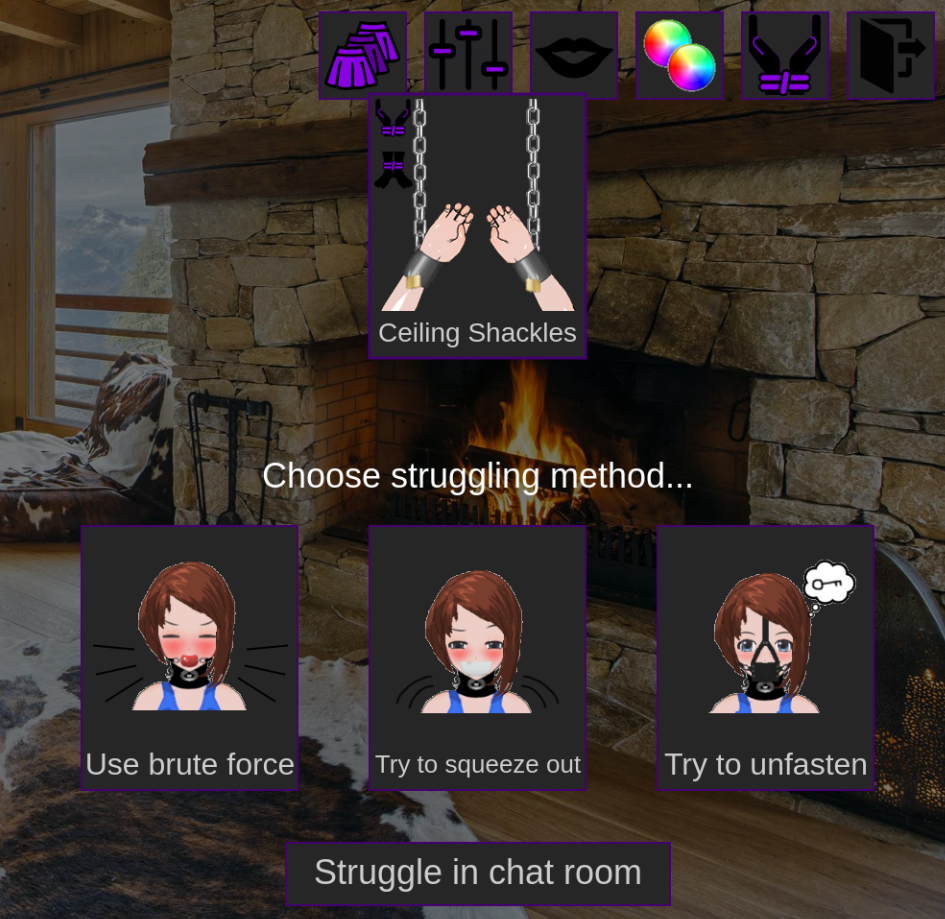
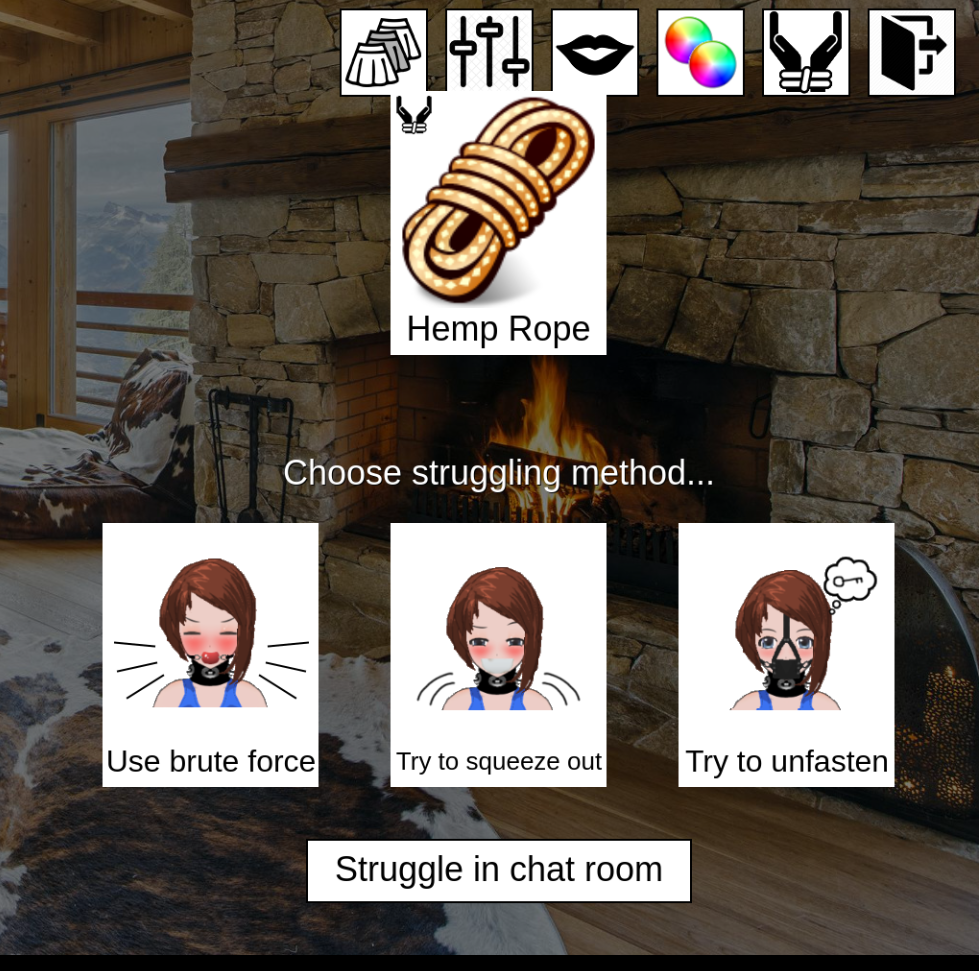
Fixes fixes fixes

diff --git a/src/qam-subscreens/welcomeQAMSubscreen.ts b/src/qam-subscreens/welcomeQAMSubscreen.ts
@@ -1,6 +1,7 @@
 import { version } from "@/../package.json";
 import { BaseQAMSubscreen } from "./baseQAMSubscreen";
 import { addDynamicClass } from "zois-core/ui";
+import { showChangelogModal } from "zois-core/changelogs";
 
 
 export class WelcomeQAMSubscreen extends BaseQAMSubscreen {
@@ -14,17 +15,20 @@ export class WelcomeQAMSubscreen extends BaseQAMSubscreen {
         text.style.cssText = "margin: 0 auto; width: 95%; text-align: center; font-size: 1.45em;";
         text.textContent = "Report errors and visual bugs if you encounter them, this will help make QAM even more convenient and powerful";
 
+        const flex = document.createElement("div");
+        flex.style.cssText = "display: flex; gap: 6px; align-items: center; justify-content: center; margin: 1em;";
+
         const githubPageButton = document.createElement("a");
         githubPageButton.textContent = "Github Page";
         githubPageButton.href = "https://github.com/FurryZoi/Bondage-Club-Chaos";
         githubPageButton.target = "_blank";
+
         addDynamicClass(githubPageButton, {
             base: {
                 padding: "0.45em",
                 borderRadius: "6px",
                 background: "rgb(227, 210, 255)",
                 width: "fit-content",
-                margin: "1em auto",
                 textDecoration: "none"
             },
             hover: {
@@ -32,10 +36,26 @@ export class WelcomeQAMSubscreen extends BaseQAMSubscreen {
             }
         });
 
-        const changelog = document.createElement("div");
-        changelog.classList.add("bccChangelog");
-        changelog.innerHTML = `<p>-- BCC v${version} -- Changes:</p><br><ul><li>Fixed "slumber curse" effect</li><li>Fixed crashes in chat room and crafting screen</li><li>More integration with Themed</li><li>Fixed some spell state icons not rendering correctly</li><li>Fixed visual bugs</li><li>[NEW] Aura Of Chaos's magic cast trigger with LSCG integration</li><li>Adapt R126</li><li>Significantly improved "Traditio Artium" effect</li><li>[NEW] "Spell Casting" page in Tome Of Knowledge</li></ul>`;
+        const changelogButton = document.createElement("button");
+        changelogButton.textContent = "Changelog";
+        changelogButton.addEventListener("click", showChangelogModal);
+        addDynamicClass(changelogButton, {
+            base: {
+                border: "none",
+                outline: "none",
+                padding: "0.45em",
+                borderRadius: "6px",
+                background: "rgb(227, 210, 255)",
+                width: "fit-content",
+                textDecoration: "none"
+            },
+            hover: {
+                background: "rgb(209 181 255)"
+            }
+        });
 
-        container.append(text, githubPageButton, changelog);
+        flex.append(githubPageButton, changelogButton);
+
+        container.append(text, flex);
     }
 }

diff --git a/src/subscreens/cheatsMinigamesSubscreen.ts b/src/subscreens/cheatsMinigamesSubscreen.ts
@@ -3,6 +3,7 @@ import type { DeepRequired } from "@/types/utilities";
 import { StyleModule } from "zois-core/shard-modules";
 import { BaseSubscreen } from "zois-core/ui";
 import strugglingMinigamesImage from "@/assets/images/struggling-minigames.png";
+import lockpickingMinigamesImage from "@/assets/images/lockpicking-minigames.png";
 
 
 
@@ -53,7 +54,7 @@ export class CheatsMinigamesSubscreen extends BaseSubscreen {
             width: 1000,
             height: 600,
             modules: {
-                base: [
+                content: [
                     new StyleModule({
                         display: "flex",
                         flexDirection: "column",
@@ -77,19 +78,31 @@ export class CheatsMinigamesSubscreen extends BaseSubscreen {
         }
 
         this.createImage({
-            src: strugglingMinigamesImage,
-            x: 1150,
+            x: 800,
             y: 200,
             width: 475,
-        })
+            src: strugglingMinigamesImage
+        });
 
         this.createText({
-            width: 750,
-            x: 1150,
-            y: 750,
-            padding: 1,
-            withBorder: true,
-            text: "Instantly completes certain mini-games with a successful result"
+            text: "Instantly completes struggling mini-games with a successful result",
+            x: 800,
+            y: 725,
+            width: 465
+        });
+
+        this.createImage({
+            x: 800 + 475 + 80,
+            y: 200,
+            width: 475,
+            src: lockpickingMinigamesImage
+        });
+
+        this.createText({
+            text: "Instantly completes lockpicking mini-game with a successful result",
+            x: 800 + 475 + 80,
+            y: 700,
+            width: 465
         });
     }
 }

diff --git a/src/subscreens/mainSubscreen.ts b/src/subscreens/mainSubscreen.ts
@@ -12,7 +12,7 @@ import { CheatsSubscreen } from "./cheatsSubscreen";
 import { syncStorage } from "@/modules/storage";
 import { AttributionsSubscreen } from "./attributionsSubscreen";
 import { ResetSettingsSubscreen } from "./resetSettingsSubscreen";
-import { getRandomNumber } from "zois-core";
+import { getRandomNumber, MOD_DATA } from "zois-core";
 import { toastsManager } from "zois-core/toasts";
 
 
@@ -138,25 +138,21 @@ export class MainSubscreen extends BaseSubscreen {
         this.createButton({
             text: "Source Code",
             icon: createElement(CodeXml),
+            href: MOD_DATA.repository,
             x: 1050,
             y: 400,
             width: 485,
             padding: 2,
-            onClick() {
-                window.open("https://github.com/FurryZoi/Bondage-Club-Chaos", "_blank");
-            },
         });
 
         this.createButton({
             text: "Issues",
             icon: createElement(Bug),
+            href: MOD_DATA.repository ? MOD_DATA.repository + "/issues" : undefined,
             x: 1050,
             y: 510,
             width: 485,
-            padding: 2,
-            onClick() {
-                window.open("https://github.com/FurryZoi/Bondage-Club-Chaos/issues", "_blank");
-            }
+            padding: 2
         });
 
         this.createButton({
@@ -174,7 +170,7 @@ export class MainSubscreen extends BaseSubscreen {
             icon: createElement(Trash2),
             x: 1050,
             y: 730,
-            style: "inverted",
+            variant: "filled",
             width: 485,
             padding: 2,
             onClick: () => this.setSubscreen(new ResetSettingsSubscreen())

diff --git a/src/subscreens/cheatsSubscreen.ts b/src/subscreens/cheatsSubscreen.ts
@@ -60,7 +60,7 @@ function appendReputationElements(container: HTMLDivElement, subscreen: CheatsSu
         const _container = subscreen.createContainer({
             parent: container,
             modules: {
-                base: [
+                content: [
                     new StyleModule({
                         display: "flex",
                         alignItems: "center",
@@ -97,7 +97,7 @@ function appendSkillsElements(container: HTMLDivElement, subscreen: CheatsSubscr
         const _container = subscreen.createContainer({
             parent: container,
             modules: {
-                base: [
+                content: [
                     new StyleModule({
                         display: "flex",
                         alignItems: "center",
@@ -167,10 +167,10 @@ export class CheatsSubscreen extends BaseSubscreen {
         const booleanCheatsContainer = this.createContainer({
             x: 200,
             y,
-            width: 1000,
+            width: 950,
             height: 625,
             modules: {
-                base: [
+                content: [
                     new StyleModule({
                         display: "flex",
                         flexDirection: "column",
@@ -288,7 +288,7 @@ export class CheatsSubscreen extends BaseSubscreen {
             height: 495,
             scroll: "y",
             modules: {
-                base: [
+                content: [
                     new StyleModule({
                         display: "flex",
                         flexDirection: "column",

diff --git a/src/subscreens/dark-magic-subscreen/mySpellsSubscreen.ts b/src/subscreens/dark-magic-subscreen/mySpellsSubscreen.ts
@@ -43,7 +43,7 @@ export class MySpellsSubscreen extends BaseSubscreen {
             width: 900,
             height: 650,
             modules: {
-                base: [
+                content: [
                     new StyleModule({
                         display: "flex",
                         flexDirection: "column",
@@ -56,8 +56,9 @@ export class MySpellsSubscreen extends BaseSubscreen {
         modStorage.darkMagic?.spells?.forEach((spell) => {
             const _container = this.createContainer({
                 parent: container,
+                scroll: "none",
                 modules: {
-                    base: [
+                    content: [
                         new StyleModule({
                             display: "flex",
                             columnGap: "0.25em"
@@ -67,7 +68,7 @@ export class MySpellsSubscreen extends BaseSubscreen {
             });
             this.createButton({
                 text: spell.name,
-                icon: getSpellIcon(spell.icon)?.dataurl ? dataUrlSvgWithColor(getSpellIcon(spell.icon)!.dataurl, cssVar("--tmd-text", "black").startsWith("#") ? hexToRgb(cssVar("--tmd-text", "black")) : cssVar("--tmd-text", "black")) : undefined,
+                icon: getSpellIcon(spell.icon)?.dataurl ? dataUrlSvgWithColor(getSpellIcon(spell.icon)!.dataurl, { fill: cssVar("--tmd-text", "black"), stroke: cssVar("--tmd-text", "black") }) : undefined,
                 padding: 2,
                 parent: _container,
                 modules: {

diff --git a/src/index.ts b/src/index.ts
@@ -1,5 +1,5 @@
 import "reflect-metadata";
-import { injectStyles, bootstrap, waitForStart } from "zois-core";
+import { injectStyles, bootstrap } from "zois-core";
 import { toastsManager } from "zois-core/toasts";
 import styles from "./styles.css";
 import { version } from "../package.json";
@@ -60,26 +60,23 @@ bootstrap({
         MySpellsSubscreen,
         SpellEditorSubscreen,
         TomeOfKnowledgeSubscreen
+    },
+    onReady: () => {
+        injectStyles(`${styles}@font-face { font-family: Kitnyx2; src: url(${kitnyx2Font}); }`);
+        loadStorage();
+        loadSettingsSubscreen();
+        loadCheats();
+        loadQuickAccessMenu();
+        loadChaosAura();
+        loadOverlay();
+        loadDarkMagic();
+        addActivities();
+
+        logger.log(`Loaded v${version}`);
+        toastsManager.success({
+            title: "BCC loaded",
+            message: `v${version}`,
+            duration: 4500
+        });
     }
 });
-
-function start() {
-    injectStyles(`${styles}@font-face { font-family: Kitnyx2; src: url(${kitnyx2Font}); }`);
-    loadStorage();
-    loadSettingsSubscreen();
-    loadCheats();
-    loadQuickAccessMenu();
-    loadChaosAura();
-    loadOverlay();
-    loadDarkMagic();
-    addActivities();
-
-    logger.log(`Loaded v${version}`);
-    toastsManager.success({
-        title: "BCC loaded",
-        message: `v${version}`,
-        duration: 4500
-    });
-}
-
-waitForStart(start);

diff --git a/src/subscreens/dark-magic-subscreen/spellEditorSubscreen.ts b/src/subscreens/dark-magic-subscreen/spellEditorSubscreen.ts
@@ -128,7 +128,7 @@ export class SpellEditorSubscreen extends BaseSubscreen {
                 y: 760,
                 width: 800,
                 modules: {
-                    base: [
+                    content: [
                         new StyleModule({
                             display: "flex",
                             columnGap: "0.25em"
@@ -223,7 +223,7 @@ export class SpellEditorSubscreen extends BaseSubscreen {
                             width: 1600,
                             scroll: "x",
                             modules: {
-                                base: [
+                                content: [
                                     new StyleModule({
                                         display: "flex",
                                         gap: "4px",
@@ -322,7 +322,7 @@ export class SpellEditorSubscreen extends BaseSubscreen {
                             width: 800,
                             height: 1000 - 75 - 315,
                             modules: {
-                                base: [
+                                content: [
                                     new StyleModule({
                                         display: "flex",
                                         flexDirection: "column",

diff --git a/src/subscreens/dark-magic-subscreen/limitsSubscreen.ts b/src/subscreens/dark-magic-subscreen/limitsSubscreen.ts
@@ -31,7 +31,7 @@ export class LimitsSubscreen extends BaseSubscreen {
             width: 800,
             height: 1000 - 75 - 240,
             modules: {
-                base: [
+                content: [
                     new StyleModule({
                         display: "flex",
                         flexDirection: "column",
@@ -44,13 +44,15 @@ export class LimitsSubscreen extends BaseSubscreen {
         for (const [key, value] of Object.entries(spellEffects)) {
             const _container = this.createContainer({
                 parent: container,
+                scroll: "none",
                 modules: {
-                    base: [
+                    content: [
                         new StyleModule({
                             display: "flex",
                             alignItems: "center",
                             justifyContent: "space-between",
-                            columnGap: "0.3em"
+                            columnGap: "0.3em",
+                            // overflow: "visible"
                         })
                     ]
                 }

diff --git a/src/subscreens/darkMagicSubscreen.ts b/src/subscreens/darkMagicSubscreen.ts
@@ -42,10 +42,10 @@ export class DarkMagicSubscreen extends BaseSubscreen {
 
         this.createButton({
             text: "Tome of Knowledge",
-            icon: dataUrlSvgWithColor(evilBookIcon, cssVar("--tmd-text", "white").startsWith("#") ? hexToRgb(cssVar("--tmd-text", "white")) : cssVar("--tmd-text", "white")),
+            icon: dataUrlSvgWithColor(evilBookIcon, { fill: cssVar("--tmd-text", "white"), stroke: cssVar("--tmd-text", "white") }),
             x: 165,
             y: 320 + (115 * 3) + 150,
-            style: "inverted",
+            variant: "filled",
             width: 600,
             padding: 2,
             onClick: () => this.setSubscreen(new TomeOfKnowledgeSubscreen())
@@ -97,7 +97,7 @@ export class DarkMagicSubscreen extends BaseSubscreen {
                 x,
                 y,
                 modules: {
-                    base: [
+                    content: [
                         new DynamicClassModule({
                             base: {
                                 borderRadius: "50%",

diff --git a/src/subscreens/quickAccessMenuSubscreen.ts b/src/subscreens/quickAccessMenuSubscreen.ts
@@ -67,7 +67,7 @@ export class QuickAccessMenuSubscreen extends BaseSubscreen {
             height: 620,
             scroll: "y",
             modules: {
-                base: [
+                content: [
                     new StyleModule({
                         display: "flex",
                         flexDirection: "column",

diff --git a/src/modules/settings.ts b/src/modules/settings.ts
@@ -17,6 +17,9 @@ export function loadSettingsSubscreen(): void {
 		exit: () => false,
 		load: () => {
 			setSubscreen(new MainSubscreen(true));
+		},
+		resize: () => {
+			getCurrentSubscreen()?.resize();
 		}
 	});
 }
